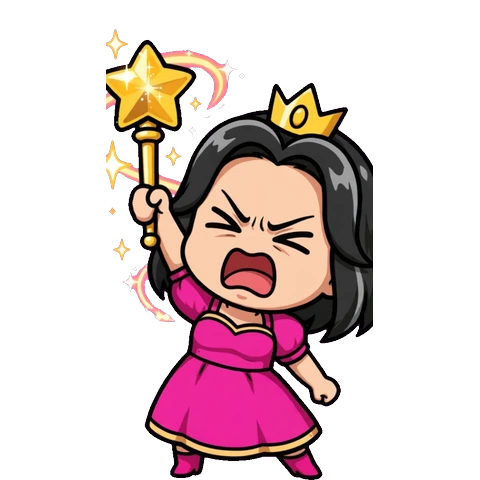
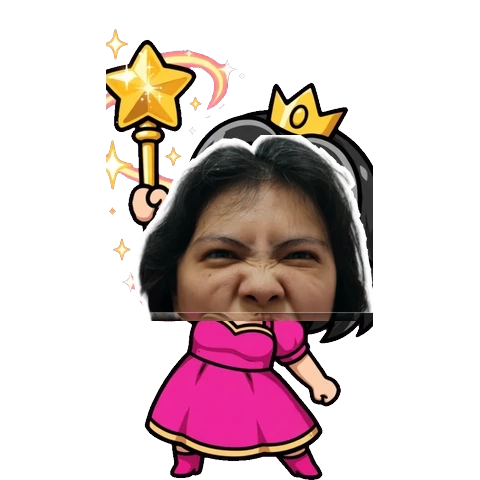
Monster Mama: pakai muka asli dari foto pengguna
Atas izin pengguna, kepala chibi pada 4 pose Monster Mama diganti
wajah asli dari foto (bingkai stiker putih + mahkota gambar, badan
tetap chibi) via apply_real_face.py. Terverifikasi di dalam game:
sprite di zona kastil + popup BOSS FINAL HP 200/200.

Changed region(s): [[0.2812, 0.2812, 0.7812, 0.6875]]

diff --git a/docs/adventure-upgrade/AUDIT-DAN-RENCANA.md b/docs/adventure-upgrade/AUDIT-DAN-RENCANA.md
@@ -310,3 +310,11 @@ pada foto yang dikirim pengguna (nama dari pengguna: **Monster Mama**).
   67/67 test (termasuk 5 test zona baru), build produksi OK, dan QA
   Playwright memperlihatkan ketiga zona + popup "BOSS FINAL —
   MONSTER MAMA" HP 200/200. Musik battle-boss tidak berubah.
+- **Muka asli (2026-11-23, izin pengguna)**: keempat pose Monster
+  Mama kini memakai wajah ASLI dari foto pengguna — kepala foto
+  dipotong di bawah dagu, diskalakan mengikuti ukuran wajah chibi,
+  diberi bingkai stiker putih dan mahkota gambar aslinya
+  (`~/workspace/apply_real_face.py`, sumber chibi tersimpan sebagai
+  cadangan). Badan, gaun, dan tongkat tetap artwork chibi. Atas
+  persetujuan pengguna pula, pekerjaan ini langsung di-merge dan
+  di-push ke `main`.
